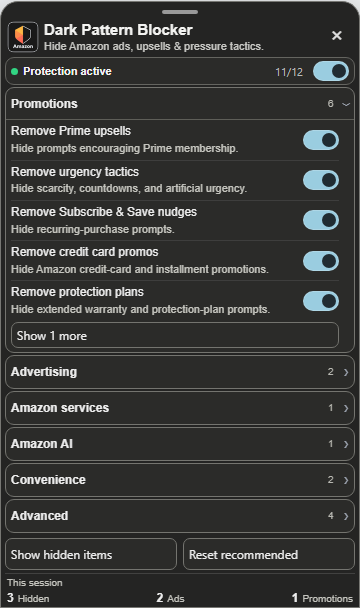
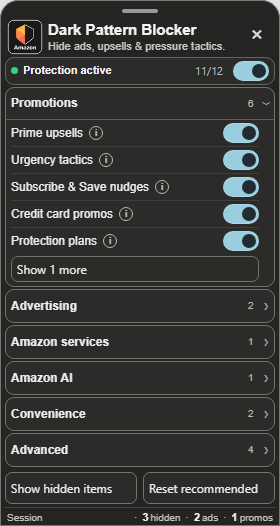
Release ADPB v1.1.2 with compact info-button menus

Changed region(s): [[0.0, 0.0, 1.0, 1.0], [0.9714, 0.0, 1.0, 0.0304]]

diff --git a/amazon-dark-pattern-blocker.user.js b/amazon-dark-pattern-blocker.user.js
@@ -1,7 +1,7 @@
 // ==UserScript==
 // @name           Amazon Dark Pattern Blocker
 // @namespace      https://github.com/ExtraPotions/velvet-crane-orbit
-// @version        1.1.1
+// @version        1.1.2
 // @description    Remove Amazon dark patterns + floating settings; major amazon.* storefronts
 // @author         expDARE
 // @license        CC-BY-NC-4.0
@@ -30,7 +30,7 @@
 // @match          https://amazon.com.mx/*
 // @match          https://www.amazon.nl/*
 // @match          https://amazon.nl/*
-// @icon           https://raw.githubusercontent.com/ExtraPotions/velvet-crane-orbit/v1.1.1/icon-128.png
+// @icon           https://raw.githubusercontent.com/ExtraPotions/velvet-crane-orbit/v1.1.2/icon-128.png
 // @run-at         document-start
 // @downloadURL    https://github.com/ExtraPotions/velvet-crane-orbit/releases/latest/download/amazon-dark-pattern-blocker.user.js
 // @updateURL      https://github.com/ExtraPotions/velvet-crane-orbit/releases/latest/download/amazon-dark-pattern-blocker.user.js
@@ -53,7 +53,7 @@
 (function () {
   "use strict";
 
-  const VERSION = "1.1.1";
+  const VERSION = "1.1.2";
   // ============================================================
   // CONFIGURATION
   // ============================================================
@@ -1984,6 +1984,10 @@
     statusNode: null,
     statsNode: null,
     footerStats: null,
+    infoButton: null,
+    infoPopover: null,
+    infoPinned: false,
+    descriptionId: 0,
 
     css() {
       return `
@@ -2811,9 +2815,19 @@
 
     menuVisualCss() {
       return `
+        #${this.PANEL_ID} .adpb-setting-copy{display:flex!important;align-items:center!important;gap:4px!important}
+        #${this.PANEL_ID} .adpb-setting-name{flex:0 1 auto!important;min-width:0!important}
+        #${this.PANEL_ID} .adpb-setting-description[hidden]{display:none!important}
+        #${this.PANEL_ID} .adpb-info{position:relative!important;flex:0 0 18px!important;width:18px!important;height:24px!important;padding:0!important;border:0!important;border-radius:4px!important;background:transparent!important;color:#bcbcb4!important;font:700 10px/1 Arial,sans-serif!important;cursor:pointer!important}
+        #${this.PANEL_ID} .adpb-info::before{content:"";position:absolute;left:2px;top:5px;width:14px;height:14px;border:1px solid currentColor;border-radius:50%;box-sizing:border-box}
+        #${this.PANEL_ID} .adpb-info:hover,#${this.PANEL_ID} .adpb-info[aria-expanded=true]{background:#41413b!important;color:#fff!important}
+        #${this.PANEL_ID} .adpb-info-popover{position:fixed!important;z-index:2147483647!important;width:max-content!important;padding:8px 10px!important;border:1px solid #92928a!important;border-radius:7px!important;background:#171715!important;color:#f5f5ee!important;box-shadow:0 4px 16px #0008!important;font:12px/1.45 Arial,sans-serif!important;overflow:auto!important;overflow-wrap:anywhere!important;text-align:left!important}
+        #${this.PANEL_ID} .adpb-info-popover[hidden]{display:none!important}
+        #${this.PANEL_ID}.adpb-high-contrast :is(.adpb-info,.adpb-info-popover){background:#000!important;color:#fff!important;border-color:#fff!important}
+        @media(pointer:coarse){#${this.PANEL_ID} .adpb-info{flex-basis:28px!important;width:28px!important;height:44px!important}#${this.PANEL_ID} .adpb-info::before{left:7px;top:15px}}
         #${this.PANEL_ID}{padding:4px!important;background:#242423!important;border-color:#777773!important;border-radius:16px!important;font:12px/1.4 Arial,sans-serif!important}
-        #${this.PANEL_ID} .adpb-header{gap:5px!important;align-items:center!important;padding:2px 2px 3px!important}
-        #${this.PANEL_ID} .adpb-header-icon{width:32px!important;height:32px!important;flex:0 0 32px!important;object-fit:contain!important;border-radius:8px!important}
+        #${this.PANEL_ID} .adpb-header{gap:5px!important;align-items:center!important;padding:0 2px 2px!important}
+        #${this.PANEL_ID} .adpb-header-icon{width:36px!important;height:36px!important;flex:0 0 36px!important;object-fit:contain!important;border-radius:8px!important}
         #${this.PANEL_ID} .adpb-header-copy{flex:1!important;min-width:0!important}
         #${this.PANEL_ID} .adpb-title{font:700 15px/1.3 Arial,sans-serif!important;color:#f3f3f1!important}
         #${this.PANEL_ID} .adpb-subtitle{font:11px/1.4 Arial,sans-serif!important;margin-top:0!important;color:#c9c9c5!important}
@@ -2829,7 +2843,7 @@
         #${this.PANEL_ID} .adpb-section-count{color:#b9b9b2!important;font-size:10px!important}
         #${this.PANEL_ID} .adpb-section.is-open>.adpb-section-toggle{border-bottom:1px solid #5e5e58!important}
         #${this.PANEL_ID} .adpb-section-content{padding:0 5px 2px!important;scrollbar-color:#b5cbd5 #2b2b29!important}
-        #${this.PANEL_ID} .adpb-setting{gap:5px!important;min-height:32px!important;padding:3px 0!important}
+        #${this.PANEL_ID} .adpb-setting{gap:5px!important;min-height:26px!important;padding:1px 0!important}
         #${this.PANEL_ID} .adpb-setting+.adpb-setting{border-top:1px solid #ffffff18!important}
         #${this.PANEL_ID} .adpb-setting-name{font:12px/1.4 Arial,sans-serif!important;color:#eee!important}
         #${this.PANEL_ID} .adpb-setting-description{font:11px/1.4 Arial,sans-serif!important;color:#c5c5bf!important}
@@ -2859,14 +2873,21 @@
         #${this.PANEL_ID} .adpb-master-copy{flex:1!important;min-width:0!important}
         #${this.PANEL_ID} .adpb-master .adpb-status{display:flex!important;gap:5px!important;padding:0!important;border:0!important}
         #${this.PANEL_ID} .adpb-master .adpb-status-detail{margin-left:auto!important;font-size:11px!important}
-        #${this.PANEL_ID} .adpb-footer-stats{grid-template-columns:auto auto auto!important;justify-content:space-between!important}
+        #${this.PANEL_ID} .adpb-foot,
+        #${this.PANEL_ID}:is(.adpb-sheet,.adpb-short) .adpb-foot{display:flex!important;align-items:center!important;justify-content:space-between!important;gap:4px!important;padding:2px 2px 0!important}
+        #${this.PANEL_ID} .adpb-footer-caption,
+        #${this.PANEL_ID}.adpb-short .adpb-footer-caption{display:block!important;flex-shrink:0!important}
+        #${this.PANEL_ID} .adpb-footer-stats{display:flex!important;align-items:center!important;gap:5px!important;margin:0!important}
+        #${this.PANEL_ID} .adpb-footer-stats>div{white-space:nowrap!important}
+        #${this.PANEL_ID} .adpb-footer-stats>div::before{content:"·";margin-right:5px}
+        #${this.PANEL_ID} .adpb-footer-stat-value{font-size:11px!important;margin-right:2px!important}
         #${this.PANEL_ID} :is(.adpb-action,.adpb-show-more,.adpb-clear-stats){min-height:26px!important;padding:2px 5px!important;margin-top:2px!important}
         #${this.PANEL_ID} .adpb-category-picker{margin:3px 0!important;min-height:28px!important}
         #${this.PANEL_ID}.adpb-sheet .adpb-header{padding-top:14px!important}
         #${this.PANEL_ID}.adpb-sheet .adpb-header::before{top:4px!important}
         #${this.PANEL_ID}.adpb-sheet :is(.adpb-section-toggle,.adpb-submenu-toggle,.adpb-close,.adpb-action,.adpb-clear-stats){min-height:32px!important}
         #${this.PANEL_ID}.adpb-sheet .adpb-close{min-width:32px!important}
-        #${this.PANEL_ID}.adpb-sheet .adpb-setting{min-height:32px!important}
+        #${this.PANEL_ID}.adpb-sheet .adpb-setting{min-height:26px!important}
         @media(pointer:coarse){#${this.PANEL_ID} :is(.adpb-section-toggle,.adpb-submenu-toggle,.adpb-close,.adpb-action,.adpb-clear-stats,.adpb-show-more,.adpb-setting){min-height:44px!important}}
         @media(forced-colors:active){#${this.PANEL_ID} .adpb-switch-input[aria-checked=true]{background:Highlight!important}#${this.PANEL_ID} .adpb-switch-input[aria-checked=true]::after{background:HighlightText!important}}
       `;
@@ -2884,12 +2905,52 @@
       return input;
     },
 
+    hideInfo() {
+      clearTimeout(this.infoHideTimer);
+      if (this.infoButton) this.infoButton.setAttribute("aria-expanded", "false");
+      if (this.infoPopover) this.infoPopover.hidden = true;
+      this.infoButton = null;
+      this.infoPinned = false;
+    },
+
+    showInfo(button, text) {
+      if (this.infoButton !== button) this.hideInfo();
+      if (!this.infoPopover) {
+        this.infoPopover = document.createElement("div");
+        this.infoPopover.className = "adpb-info-popover";
+        this.infoPopover.setAttribute("role", "tooltip");
+        this.infoPopover.addEventListener("pointerenter", () => clearTimeout(this.infoHideTimer));
+        this.infoPopover.addEventListener("pointerleave", () => {
+          if (!this.infoPinned && this.shadow.activeElement !== this.infoButton) this.hideInfo();
+        });
+        this.panel.appendChild(this.infoPopover);
+      }
+      this.infoButton = button;
+      clearTimeout(this.infoHideTimer);
+      this.infoPopover.textContent = text;
+      this.infoPopover.hidden = false;
+      button.setAttribute("aria-expanded", "true");
+      const viewport = window.visualViewport;
+      const x = viewport?.offsetLeft || 0;
+      const y = viewport?.offsetTop || 0;
+      const width = viewport?.width || window.innerWidth;
+      const height = viewport?.height || window.innerHeight;
+      const tip = this.infoPopover;
+      tip.style.maxWidth = Math.min(240, width - 16) + "px";
+      tip.style.maxHeight = Math.max(40, height - 16) + "px";
+      const anchor = button.getBoundingClientRect();
+      const rect = tip.getBoundingClientRect();
+      tip.style.left = Math.max(x + 8, Math.min(anchor.right - rect.width, x + width - rect.width - 8)) + "px";
+      const top = anchor.bottom + rect.height + 6 <= y + height - 8 ? anchor.bottom + 6 : anchor.top - rect.height - 6;
+      tip.style.top = Math.max(y + 8, Math.min(top, y + height - rect.height - 8)) + "px";
+    },
+
     createSwitch(
       setting,
       onChange,
     ) {
       const label =
-        document.createElement("label");
+        document.createElement("div");
 
       label.className =
         "adpb-setting";
@@ -2907,7 +2968,7 @@
         "adpb-setting-name";
 
       name.textContent =
-        setting.displayName;
+        setting.displayName.replace(/^Remove /, "").replace(/^./, letter => letter.toUpperCase());
 
       const description =
         document.createElement("span");
@@ -2917,12 +2978,40 @@
 
       description.textContent =
         setting.description;
+      description.id = `adpb-description-${++this.descriptionId}`;
+      description.hidden = true;
 
       copy.appendChild(name);
       copy.appendChild(description);
 
       const input =
         this.makeSwitch(setting.displayName);
+      input.setAttribute("aria-describedby", description.id);
+      const info = document.createElement("button");
+      info.type = "button";
+      info.className = "adpb-info";
+      info.textContent = "i";
+      info.setAttribute("aria-label", `About ${setting.displayName}`);
+      info.setAttribute("aria-describedby", description.id);
+      info.setAttribute("aria-expanded", "false");
+      info.addEventListener("pointerenter", event => {
+        if (event.pointerType === "mouse") this.showInfo(info, setting.description);
+      });
+      info.addEventListener("pointerleave", () => {
+        if (this.infoButton === info && !this.infoPinned && this.shadow.activeElement !== info) {
+          this.infoHideTimer = setTimeout(() => this.hideInfo(), 180);
+        }
+      });
+      info.addEventListener("focus", () => this.showInfo(info, setting.description));
+      info.addEventListener("blur", () => { if (this.infoButton === info) this.hideInfo(); });
+      info.addEventListener("click", event => {
+        event.stopPropagation();
+        if (this.infoButton === info && this.infoPinned) this.hideInfo();
+        else {
+          this.showInfo(info, setting.description);
+          this.infoPinned = true;
+        }
+      });
 
       input.className =
         "adpb-switch-input";
@@ -2970,6 +3059,7 @@
         },
       );
 
+      copy.appendChild(info);
       label.appendChild(copy);
       label.appendChild(input);
       label.appendChild(toggle);
@@ -3027,7 +3117,7 @@
         "adpb-subtitle";
 
       subtitle.textContent =
-        "Hide Amazon ads, upsells & pressure tactics.";
+        "Hide ads, upsells & pressure tactics.";
 
       titleBlock.appendChild(title);
       titleBlock.appendChild(subtitle);
@@ -3731,12 +3821,12 @@
 
       const footerCaption = document.createElement("div");
       footerCaption.className = "adpb-footer-caption";
-      footerCaption.textContent = "This session";
+      footerCaption.textContent = "Session";
       const footerStats = document.createElement("div");
       footerStats.className = "adpb-footer-stats";
       foot.setAttribute("aria-label", "This session activity");
       this.footerStats = {};
-      for (const [key, label] of [["hidden", "Hidden"], ["advertising", "Ads"], ["promotions", "Promotions"]]) {
+      for (const [key, label] of [["hidden", "hidden"], ["advertising", "ads"], ["promotions", "promos"]]) {
         const metric = document.createElement("div");
         const value = document.createElement("span");
         value.className = "adpb-footer-stat-value";
@@ -3876,6 +3966,7 @@
     },
 
     close() {
+      this.hideInfo();
       if (!this.panel) return;
 
       this.panel.classList.remove(
@@ -4564,7 +4655,7 @@
         const set = (name, value) => panel.style.setProperty(name, value, "important");
         const available = Math.max(0, height - (sheet ? 8 : 24));
         set("max-height", available + "px");
-        set("width", (sheet ? Math.min(360, width) : Math.min(280, width - 24)) + "px");
+        set("width", (sheet ? Math.min(280, width) : Math.min(280, width - 24)) + "px");
         set("max-width", (sheet ? width : width - 24) + "px");
         set("right", "auto");
         set("bottom", "auto");
@@ -5029,6 +5120,7 @@
       );
       document.body.appendChild(this.host);
       panel.addEventListener('keydown',event=>{
+        if(event.key==='Escape' && this.infoButton){event.preventDefault();event.stopPropagation();this.hideInfo();return;}
         if(event.key!=='Tab')return;
         const items=[...panel.querySelectorAll('button,input,select,textarea,summary,a[href]')].filter(el=>el.getClientRects().length&&!el.disabled);
         const first=items[0],last=items.at(-1);
@@ -5044,6 +5136,13 @@
       };
       panel.addEventListener('click', schedulePanelLayout);
       panel.addEventListener('change', schedulePanelLayout);
+      panel.addEventListener('scroll', () => this.hideInfo(), true);
+      document.addEventListener('pointerdown', event => {
+        const path = event.composedPath();
+        if (this.infoButton && !path.includes(this.infoButton) && !path.includes(this.infoPopover)) this.hideInfo();
+      }, true);
+      window.addEventListener('resize', () => this.hideInfo(), {passive:true});
+      window.visualViewport?.addEventListener('resize', () => this.hideInfo(), {passive:true});
       if (typeof ResizeObserver !== 'undefined') {
         const observer = new ResizeObserver(schedulePanelLayout);
         observer.observe(panel);

diff --git a/README.md b/README.md
@@ -4,9 +4,9 @@
 
 Remove common Amazon dark patterns while keeping control over the protections you want.
 
-[![Amazon ADPB v1.1.1](badge.svg)](https://github.com/ExtraPotions/velvet-crane-orbit/releases/tag/v1.1.1)
+[![Amazon ADPB v1.1.2](badge.svg)](https://github.com/ExtraPotions/velvet-crane-orbit/releases/tag/v1.1.2)
 
-**Version 1.1.1** · By [expDARE](https://github.com/ExtraPotions) · [What's new](CHANGELOG.md)
+**Version 1.1.2** · By [expDARE](https://github.com/ExtraPotions) · [What's new](CHANGELOG.md)
 
 ## Features
 
@@ -22,12 +22,13 @@ Remove common Amazon dark patterns while keeping control over the protections yo
 - Clear stats sits with session stats; Reset recommended stays at the panel foot.
 - Compact 280px charcoal menu with denser spacing, accessible toggle buttons and descriptions.
 - Compact icon header, rounded category rows and sentence-case labels keep the menu easy to scan.
+- Info buttons show descriptions on hover, keyboard focus or tap. Tap again or outside to dismiss; Escape dismisses help before closing the menu.
 - Protection status shares one row with its master switch; Advanced submenus use light separators and minimal inset spacing.
 - A short header explains the script; the footer shows live session counts for hidden items, ads and promotions.
 - Show hidden items temporarily restores ADPB-hidden elements dimmed; hover or keyboard focus restores full contrast. Hide revealed items reapplies hiding without changing saved protections. Inspection ends on reload and does not undo clicks or other non-visual actions.
 - Adaptive menu placement chooses the roomier side of the launcher and shifts upward as content expands.
 - The title, close button and category navigation remain visible; overflow scrolls inside the expanded section.
-- Small screens use a centered bottom sheet up to 360px wide. Very short viewports use a category selector to leave room for settings.
+- Small screens use a centered bottom sheet up to 280px wide. Very short viewports use a category selector to leave room for settings.
 - High-contrast switches and automatic system reduced-motion support.
 - Remembered launcher placement, including a preferred position beside a page control.
 - Versioned settings are validated and migrated automatically when updating.

diff --git a/CHANGELOG.md b/CHANGELOG.md
@@ -1,5 +1,13 @@
 # Changelog
 
+## 1.1.2
+
+- Replace inline setting descriptions with info buttons supporting hover, keyboard focus and mobile tap.
+- Use compact 26px desktop rows, shorter labels and small info icons beside the text.
+- Cap mobile sheets at 280px, matching desktop, and center them at the bottom.
+- Tighten the header and session footer while keeping a recognizable 36px header icon.
+- Add tests for help popovers, dismissal, viewport bounds and switch isolation.
+
 ## 1.1.1
 
 - Narrow desktop menus to 280px and center mobile sheets with a 360px maximum width.
